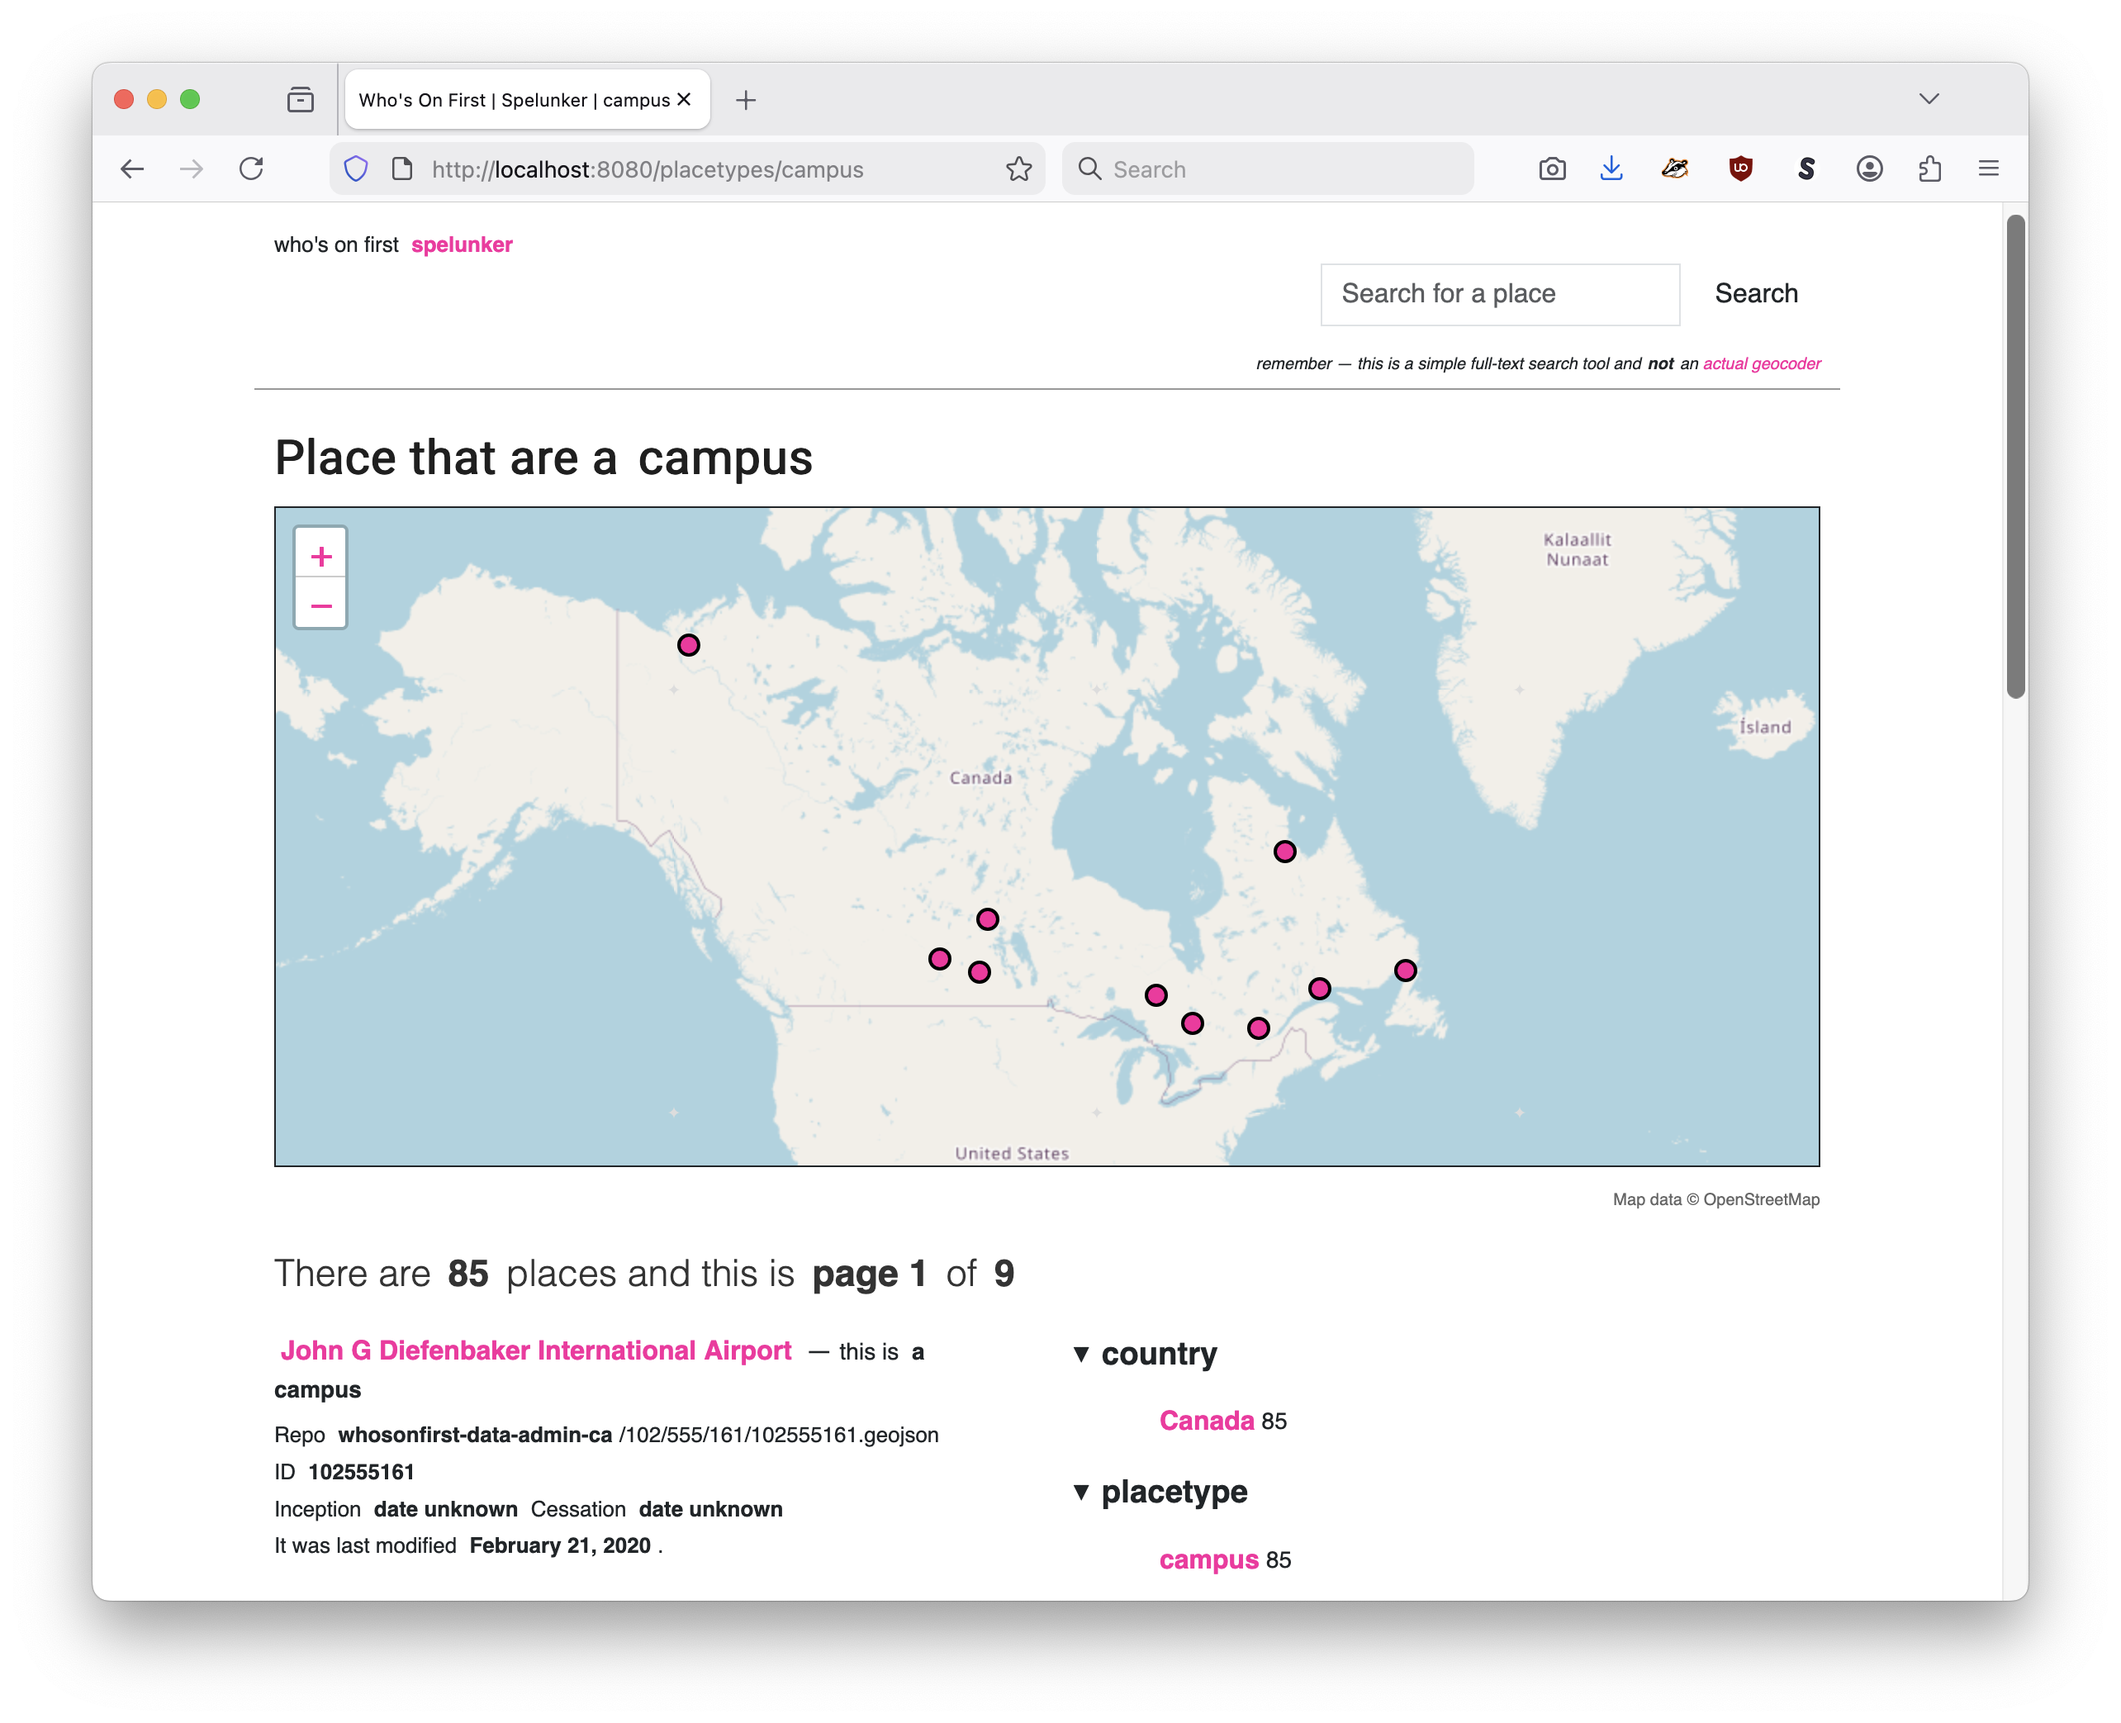
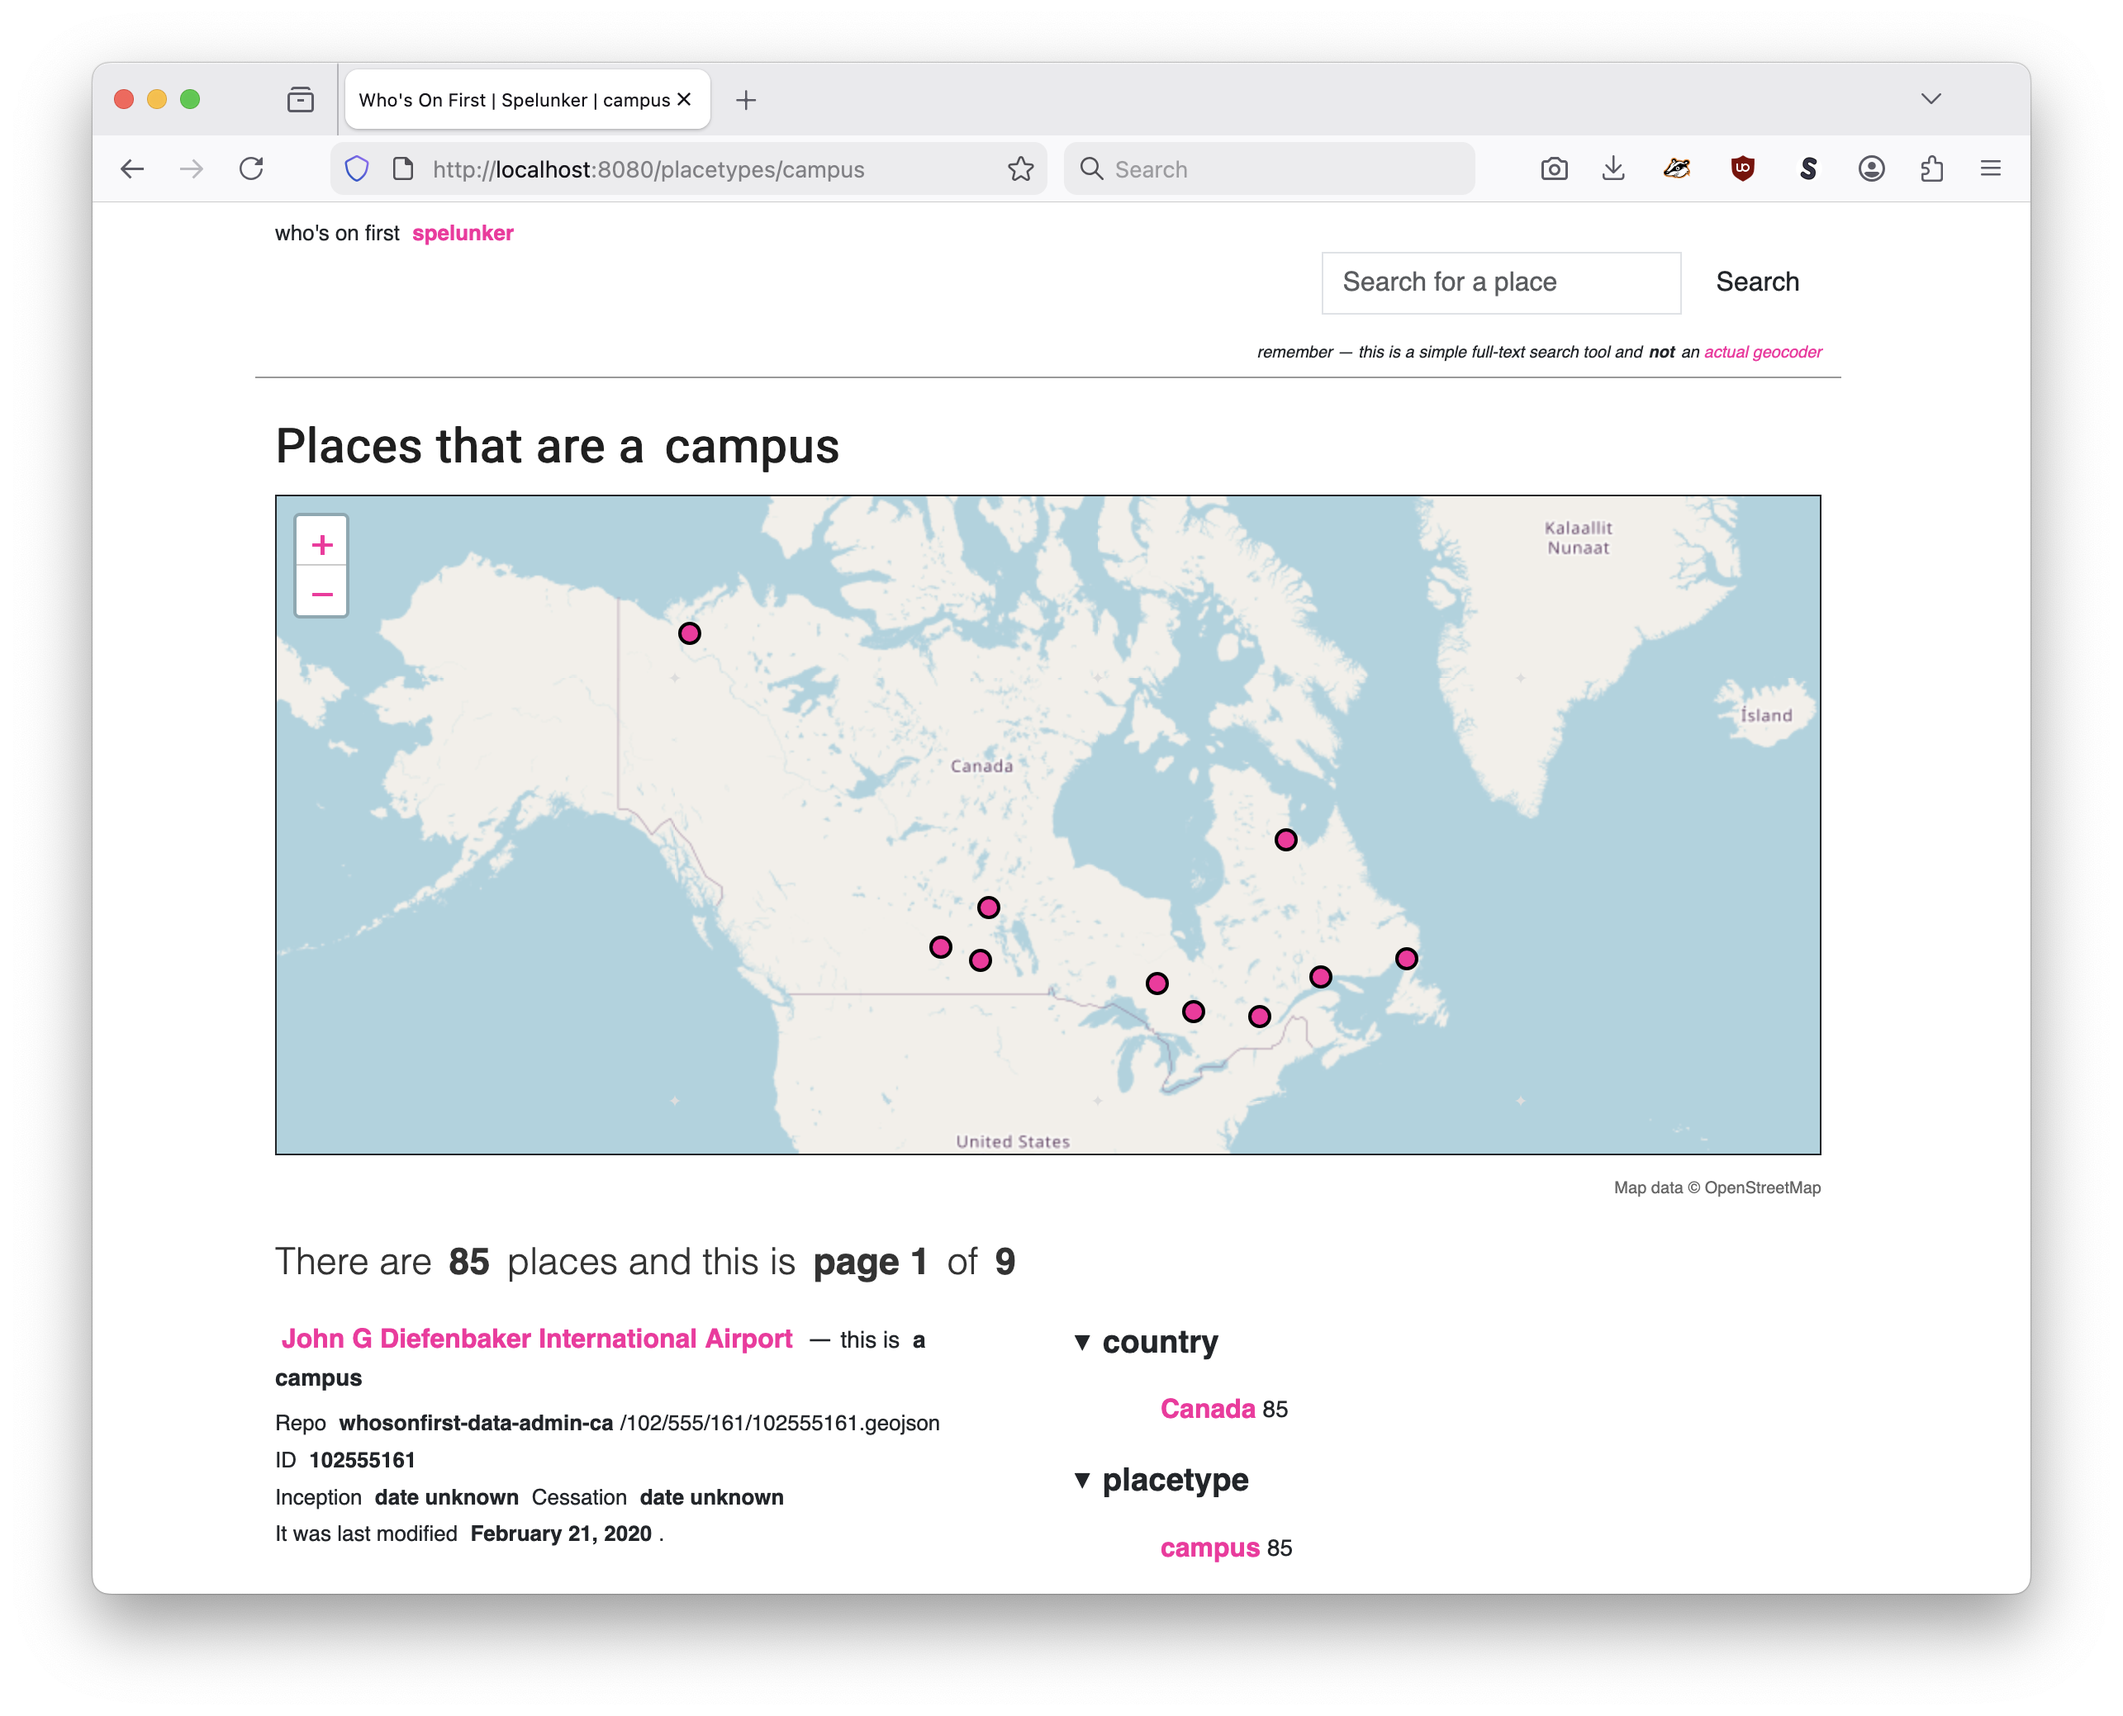
improved screenshots

diff --git a/http/templates/html/placetype.html b/http/templates/html/placetype.html
@@ -1,6 +1,6 @@
 {{ define "placetype" -}}
 {{ template "inc_head" . -}}
-<h2>Place that are a <span class="hey-look">{{ .Placetype.Name }}</span></h2>
+<h2>Places that are a <span class="hey-look">{{ .Placetype.Name }}</span></h2>
 {{ template "inc_places" . -}}
 {{ template "inc_foot" . -}}
 <script type="text/javascript" src="{{ .URIs.Static }}javascript/whosonfirst.spelunker.places.init.js"></script>

diff --git a/cmd/wof-spelunker-httpd/README.md b/cmd/wof-spelunker-httpd/README.md
@@ -292,11 +292,13 @@ The URL for the page listing all the placetypes in a Spelunker index. For exampl
 
 ![](../../docs/images/wof-spelunker-placetype.png)
 
-The URL for the page listing all the records matching a specific placetype in a Spelunker index. For example `http://localhost:8080/placetypes/locality/`.
+The URL for the page listing all the records matching a specific placetype in a Spelunker index. For example `http://localhost:8080/placetypes/campus/`.
 
 #### /recent/{duration}
 
-The URL for the page listing all the records in a Spelunker index that have been updated within a given time period. For example `http://localhost:8080/recent/P14D`.
+![](../../docs/images/wof-spelunker-recent.png)
+
+The URL for the page listing all the records in a Spelunker index that have been updated within a given time period. For example `http://localhost:8080/recent/`.
 
 #### /search
 
